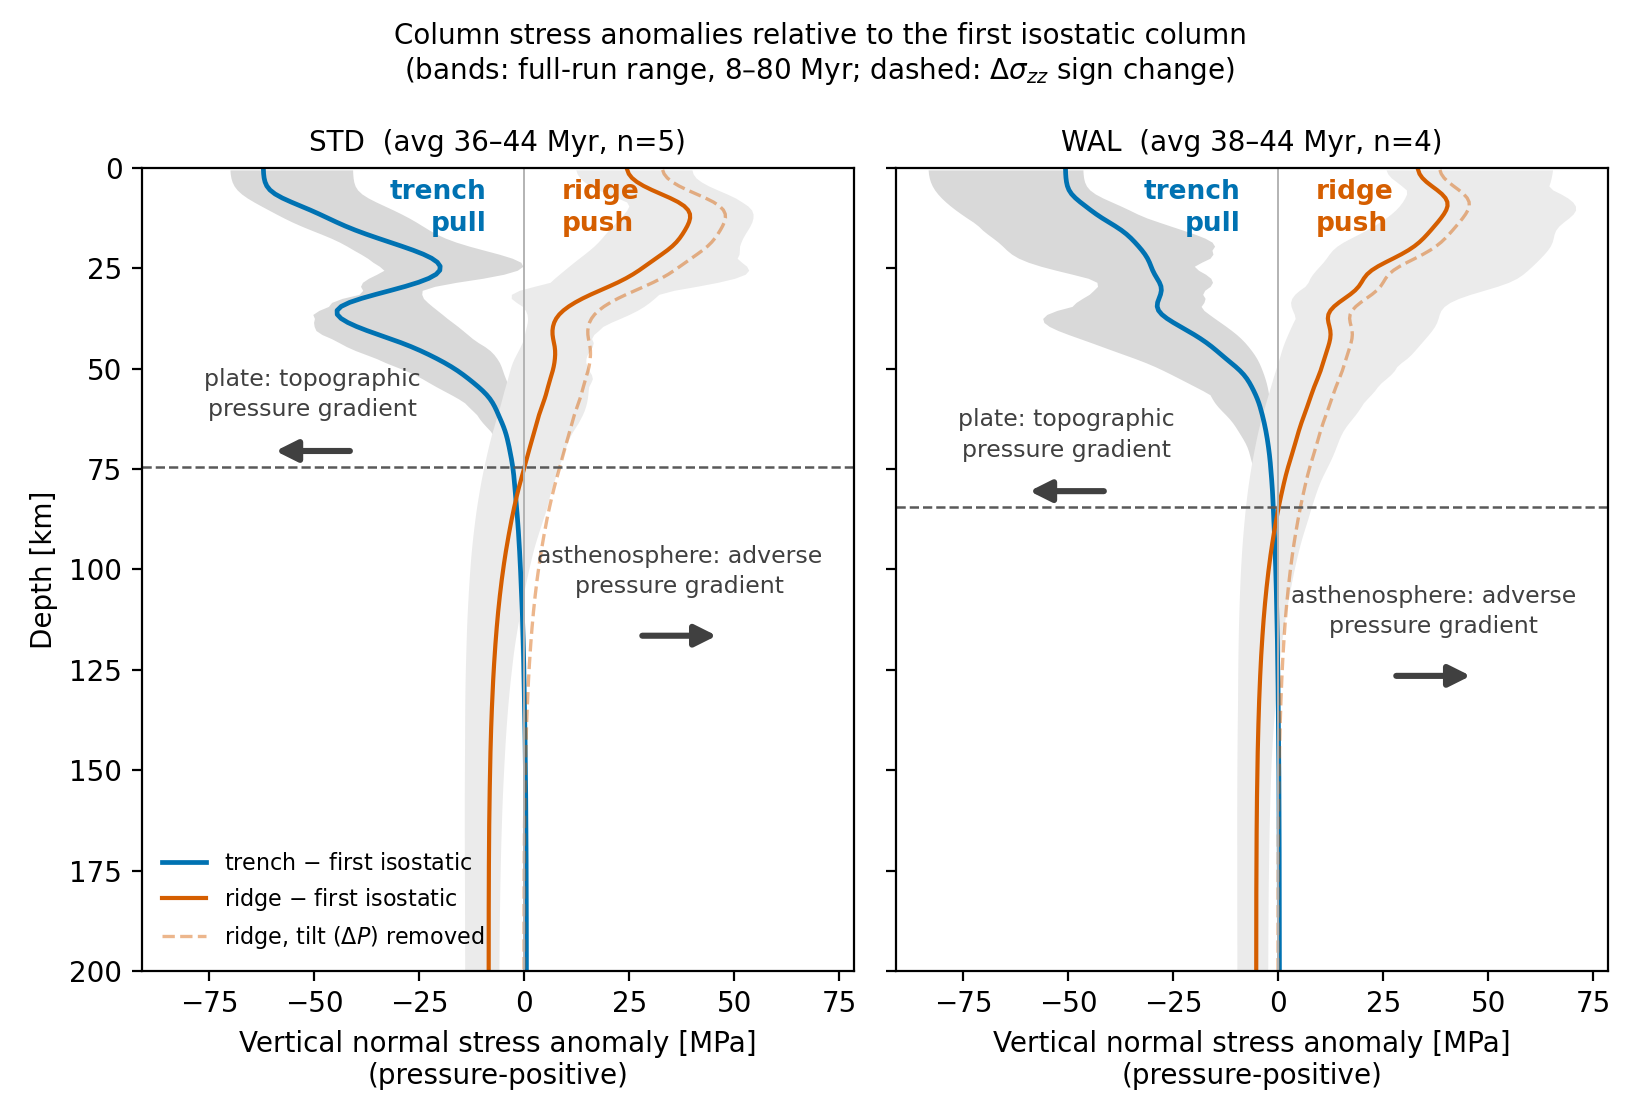
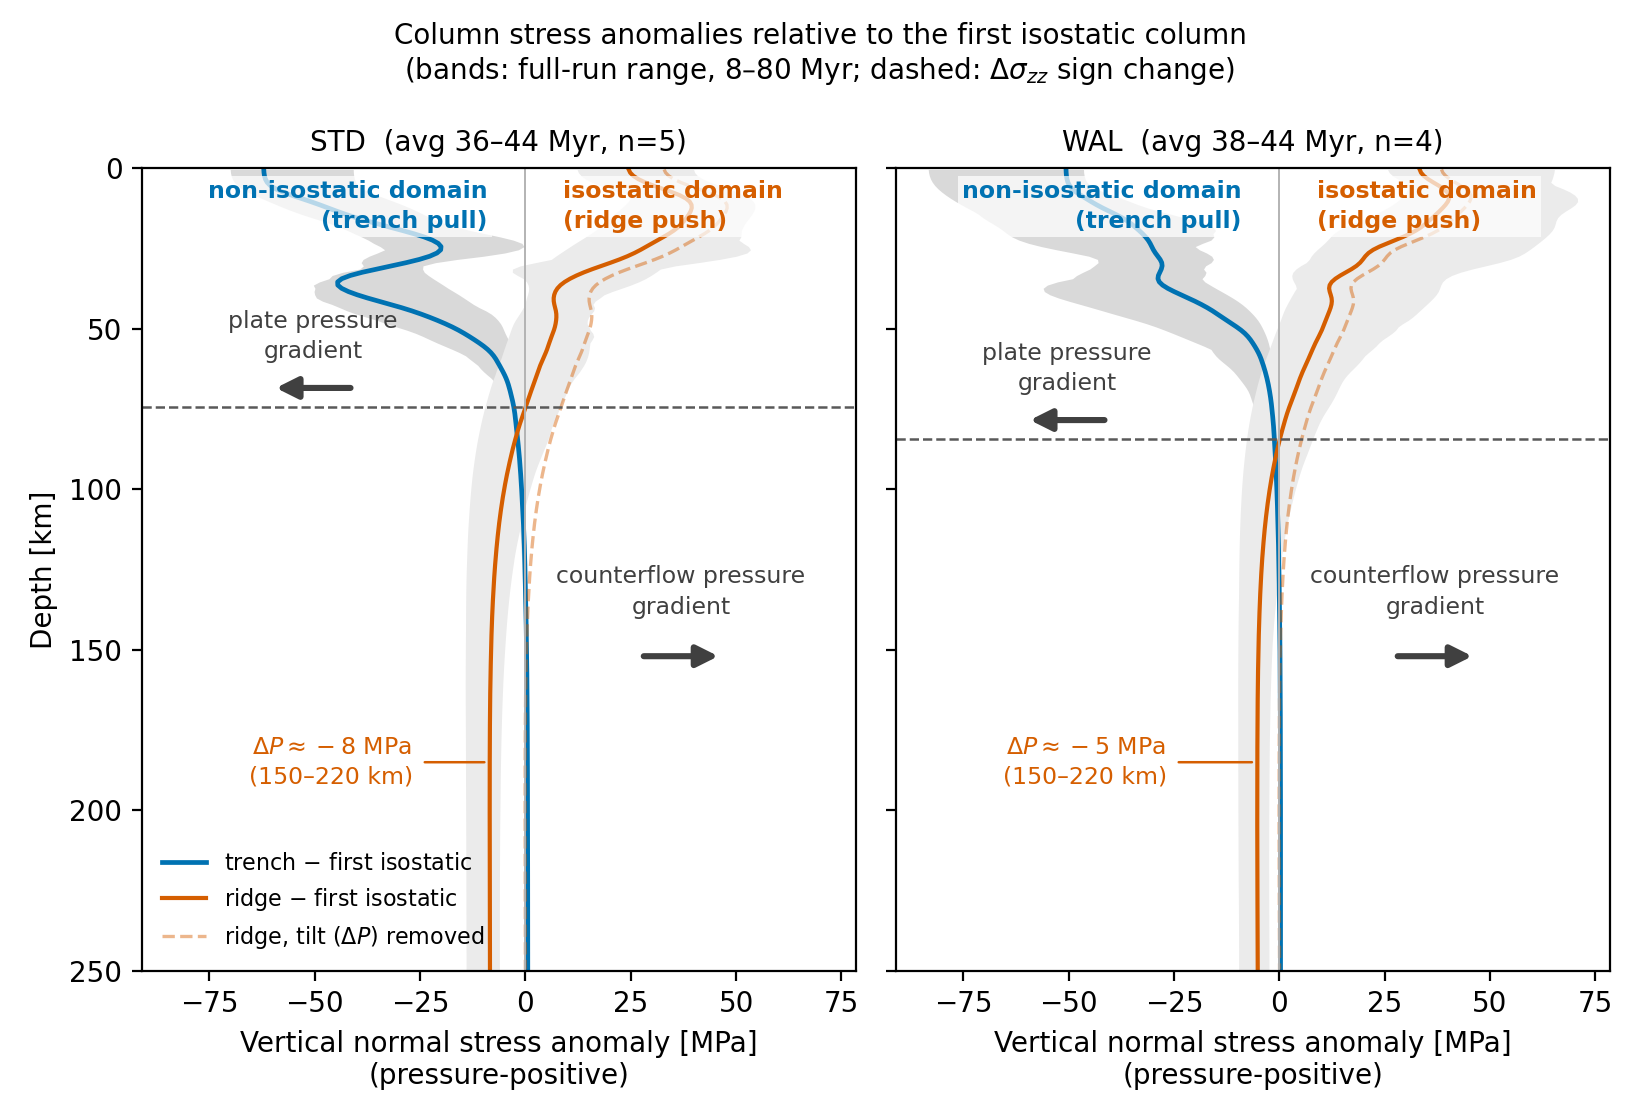
fig_column_anomalies: domain names, plain gradient labels, deep Delta P annotation
Dan, 2026-09-26. Four changes.

DOMAIN NAMES. 'trench pull'/'ridge push' become 'non-isostatic domain
(trench pull)' and 'isostatic domain (ridge push)' — the domain is what
the colours encode, the force is what it carries. Set on a translucent
white ground since the longer names reach into the curves.

GRADIENT LABELS, plainly named. The old wording ('plate: topographic'
above the dashed line, 'asthenosphere: adverse' below, both hugging it)
implied that the FLOW reverses at the sigma_zz sign change. It does not:
the sign change is at 80 km (STD) / 86 (WAL) while the base of the
coherently translating plate is at 99 / 93 km (fig_lab_kinematics, W17).
Now 'plate pressure gradient' and 'counterflow pressure gradient'.

LOWER ARROW MOVED DEEPER, to 152 km — well below the sign change and
inside the interval where the anomaly has asymptoted, so neither label can
be read as locating a transition.

DELTA P ANNOTATED with its sign, rounded to whole MPa, and stated with the
band it is sampled over: -8 MPa (STD) / -5 MPa (WAL) over 150-220 km,
mid-run mean. Depth axis extended to 250 km so that band is fully on-plot.

diff --git a/scripts/fig_column_anomalies.py b/scripts/fig_column_anomalies.py
@@ -111,10 +111,19 @@ def main():
         ax.axhline(z_x, color='0.35', lw=0.9, ls='--')
         # name the two forces where their amplitude is largest, in the
         # corridor between the trench and ridge bands (Dan, 2026-09-18)
-        ax.text(-9, 10, 'trench\npull', ha='right', va='center', fontsize=9.5,
-                color=C_TRENCH, fontweight='bold', linespacing=1.3)
-        ax.text(9, 10, 'ridge\npush', ha='left', va='center', fontsize=9.5,
-                color=C_RIDGE, fontweight='bold', linespacing=1.3)
+        # DOMAIN names first, mechanism in brackets (Dan, 2026-09-26): the
+        # schematic's two additive domains are what the colours encode, and
+        # "trench pull"/"ridge push" are the forces they carry.
+        # The longer names reach into the curves, so they are set on a
+        # translucent white ground rather than moved -- they belong beside
+        # the lobes they name, which is where the curves are.
+        bb = dict(facecolor='white', alpha=0.72, edgecolor='none', pad=1.5)
+        ax.text(-9, 12, 'non-isostatic domain\n(trench pull)', ha='right',
+                va='center', fontsize=8.5, color=C_TRENCH, fontweight='bold',
+                linespacing=1.35, bbox=bb)
+        ax.text(9, 12, 'isostatic domain\n(ridge push)', ha='left',
+                va='center', fontsize=8.5, color=C_RIDGE, fontweight='bold',
+                linespacing=1.35, bbox=bb)
         # Regime labels: two lines each, set WELL CLEAR of the sign change
         # (one shallower, one much deeper), each with an arrow giving the
         # direction of the force it produces (Dan, 2026-09-18).
@@ -125,9 +134,20 @@ def main():
         # Plate label in the empty LEFT region above the sign change,
         # asthenosphere label in the empty RIGHT region below it; each with
         # its force-direction arrow beneath. Trench-ward is left.
+        # The two gradients are now named PLAINLY (Dan, 2026-09-26). The
+        # old wording ("plate: topographic" above, "asthenosphere: adverse"
+        # below, both hugging the dashed line) implied that the FLOW
+        # reverses at the sigma_zz sign change. It does not: the sign change
+        # sits at 80 km (STD) / 86 (WAL) while the base of the coherently
+        # translating plate -- the dynamical LAB -- is at 99 / 93 km
+        # (fig_lab_kinematics, W17). The dashed line marks where the stress
+        # anomaly changes sign, nothing more.
+        # The lower arrow is also moved well below it, into the interval
+        # where the anomaly has asymptoted, so that neither label can be
+        # read as locating a transition.
         for xc, z_lab, z_arr, txt, head in (
-                (0.24, z_x - 18, z_x - 4, 'plate: topographic\npressure gradient', -1),
-                (0.755, z_x + 26, z_x + 42, 'asthenosphere: adverse\npressure gradient', +1)):
+                (0.24, z_x - 22, z_x - 6, 'plate pressure\ngradient', -1),
+                (0.755, 132, 152, 'counterflow pressure\ngradient', +1)):
             ax.text(xc, z_lab, txt, transform=ax.get_yaxis_transform(),
                     ha='center', va='center', fontsize=8.5, color='0.25',
                     linespacing=1.4)
@@ -136,9 +156,24 @@ def main():
                         textcoords=ax.get_yaxis_transform(),
                         arrowprops=dict(arrowstyle='-|>', color='0.25', lw=2.2,
                                         mutation_scale=16))
+        # The deep asthenospheric anomaly, labelled with its SIGN, rounded
+        # to whole MPa, and stated with the band it is sampled over -- the
+        # interval in which it asymptotes (Dan, 2026-09-26).
+        dP_mid = c['dP'][m].mean() / 1e6
+        zlo, zhi = cpc.DP_BAND_KM
+        # number inside mathtext so the sign renders as a minus, not a hyphen
+        ax.annotate(f'$\\Delta P \\approx {dP_mid:.0f}$ MPa\n'
+                    f'({zlo:.0f}–{zhi:.0f} km)',
+                    xy=(dP_mid, 0.5 * (zlo + zhi)), xytext=(-46, 0.5 * (zlo + zhi)),
+                    ha='center', va='center', fontsize=8.5, color=C_RIDGE,
+                    linespacing=1.35,
+                    arrowprops=dict(arrowstyle='-', color=C_RIDGE, lw=0.9,
+                                    shrinkA=2, shrinkB=2))
         ax.set_xlabel('Vertical normal stress anomaly [MPa]\n(pressure-positive)')
     axes[0].set_ylabel('Depth [km]')
-    axes[0].set_ylim(200, 0)
+    # 250 km, not 200: the Delta P band runs to 220 km and was half off-plot,
+    # and the counterflow label needs depth clear of the sign change.
+    axes[0].set_ylim(250, 0)
     axes[0].legend(fontsize=8, frameon=False, loc='lower left')
     fig.suptitle('Column stress anomalies relative to the first isostatic column\n'
                  '(bands: full-run range, 8–80 Myr; dashed: $\\Delta\\sigma_{zz}$ sign change)', fontsize=10)
